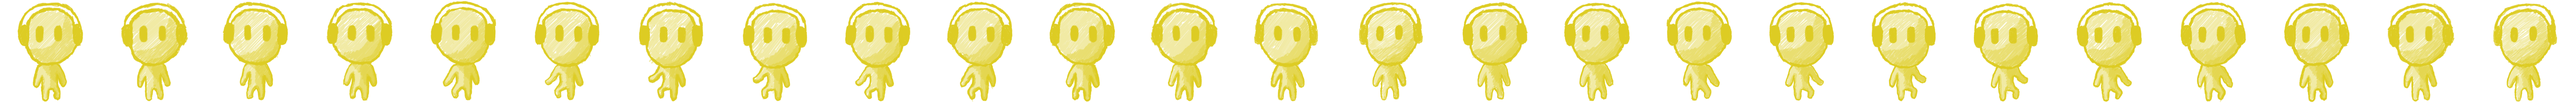
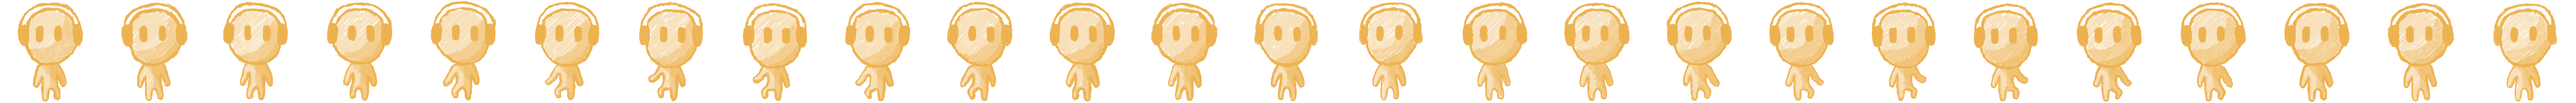
Add players colors, user assets properly

Changed region(s): [[0.0, 0.0, 0.9989, 0.9688]]

diff --git a/src/game/Cell.ts b/src/game/Cell.ts
@@ -44,29 +44,26 @@ export class Cell extends GameObject {
      */
     const fontSize = Cell.cellSize / 3.7;
     canvas.font = `${fontSize}px Nunito`;
+    canvas.fillStyle = '#C7C4B1';
+    canvas.globalAlpha = 0.8;
 
     if (this.id === 0) {
-      canvas.fillStyle = 'white';
-      canvas.globalAlpha = 0.7;
       canvas.fillText(
         'Start',
-
         this.x * Cell.cellSize + Cell.cellSize / 5.7,
         this.y * Cell.cellSize + Cell.cellSize / 1.6
       );
-      canvas.globalAlpha = 1;
     }
 
     if (this.isLast) {
-      canvas.fillStyle = '#C7C4B1';
-      canvas.globalAlpha = 0.8;
       canvas.fillText(
         'Finish',
         this.x * Cell.cellSize + Cell.cellSize / 7.2,
         this.y * Cell.cellSize + Cell.cellSize / 1.6
       );
-      canvas.globalAlpha = 1;
     }
+
+    canvas.globalAlpha = 1;
   }
 
   render = (canvas: CanvasRenderingContext2D) => {

diff --git a/src/components/Menu/index.tsx b/src/components/Menu/index.tsx
@@ -1,5 +1,6 @@
 import { useEffect, useMemo, useState } from 'react';
 import { useTranslation } from 'react-i18next';
+import { IS_PROMO_GAME_VERSION } from '../../utils';
 
 import './Menu.css';
 
@@ -24,9 +25,11 @@ function Menu({ loading, onPlayStart }: MenuProps) {
     visibility: coverVisibility,
   }), [coverVisibility]);
 
+  const coverClassName = IS_PROMO_GAME_VERSION ? 'Cover CoverPromo' : 'Cover';
+
   return (
     <div className="Menu">
-      <div style={coverInlineStyles} className="Cover" />
+      <div style={coverInlineStyles} className={coverClassName} />
     </div>
   );
 }

diff --git a/src/gameImagesService.ts b/src/gameImagesService.ts
@@ -1,6 +1,6 @@
 import blueCell from './assets/blue_cell.png';
 import redCell from './assets/red_cell.png';
-import userDanceBlack from './assets/user_dance_black.png';
+import userDanceBlue from './assets/user_dance_blue.png';
 import userDanceYellow from './assets/user_dance_yellow.png';
 import userDanceWhite from './assets/user_dance_white.png';
 import ladderLeft from './assets/ladder-left.png';
@@ -22,7 +22,7 @@ const IMAGES_SOURCES = {
   coffin,
   praiseHands,
   snakesNest,
-  userDanceBlack,
+  userDanceBlue,
   userDanceYellow,
   userDanceWhite,
   cloud,

diff --git a/src/utils.ts b/src/utils.ts
@@ -71,7 +71,7 @@ export const useGameSounds = (muted: boolean): PlaySoundCallbacks => {
 export const SINGLE_PLAYER_CONFIG: PlayerConfig[] = [
   {
     key: 'player',
-    imageName: 'userDanceBlack',
+    imageName: 'userDanceYellow',
     automatic: false,
   },
   {
@@ -84,7 +84,7 @@ export const SINGLE_PLAYER_CONFIG: PlayerConfig[] = [
 export const TWO_PLAYERS_CONFIG: PlayerConfig[] = [
   {
     key: 'player',
-    imageName: 'userDanceBlack',
+    imageName: 'userDanceBlue',
     automatic: false,
   },
   {

diff --git a/src/game/User.ts b/src/game/User.ts
@@ -17,7 +17,7 @@ export class User {
   constructor(
     position: Cell,
     name: string = 'defaultName',
-    imageName: ImageName = 'userDanceBlack'
+    imageName: ImageName = 'userDanceWhite'
   ) {
     this.position = position;
     this.x = position.x;

diff --git a/src/components/Menu/Menu.css b/src/components/Menu/Menu.css
@@ -39,6 +39,10 @@
   animation-delay: 1s;
 }
 
+.CoverPromo {
+  background-image: url('../../assets/cover.jpg');
+}
+
 /* for blinking effect while loading images resources */
 @keyframes blinkingCoverBackground {
   50%		{ opacity: 65% }
